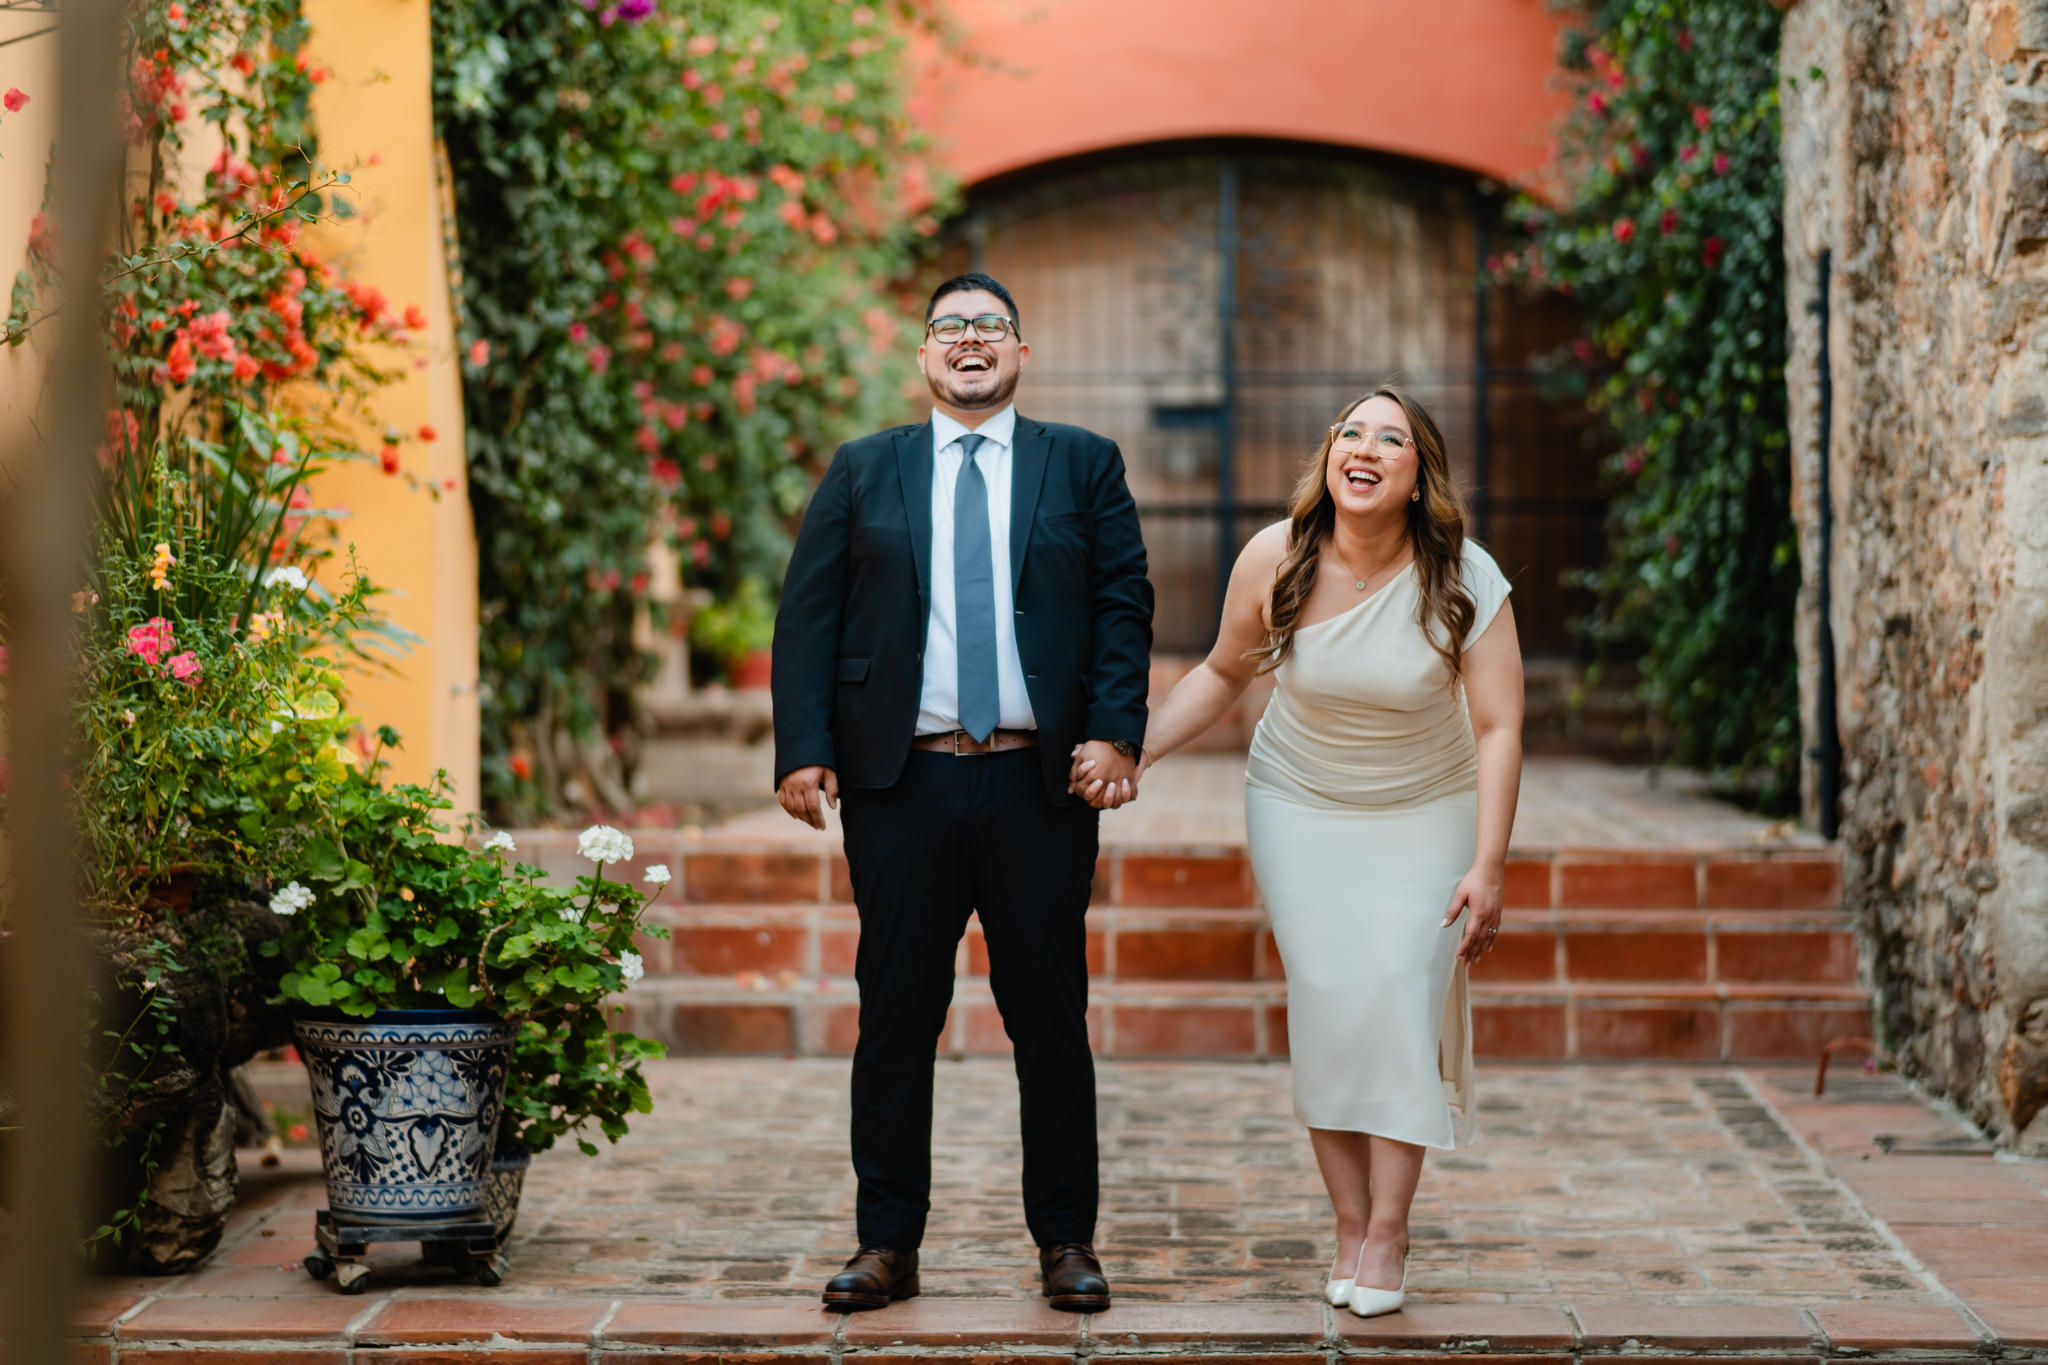
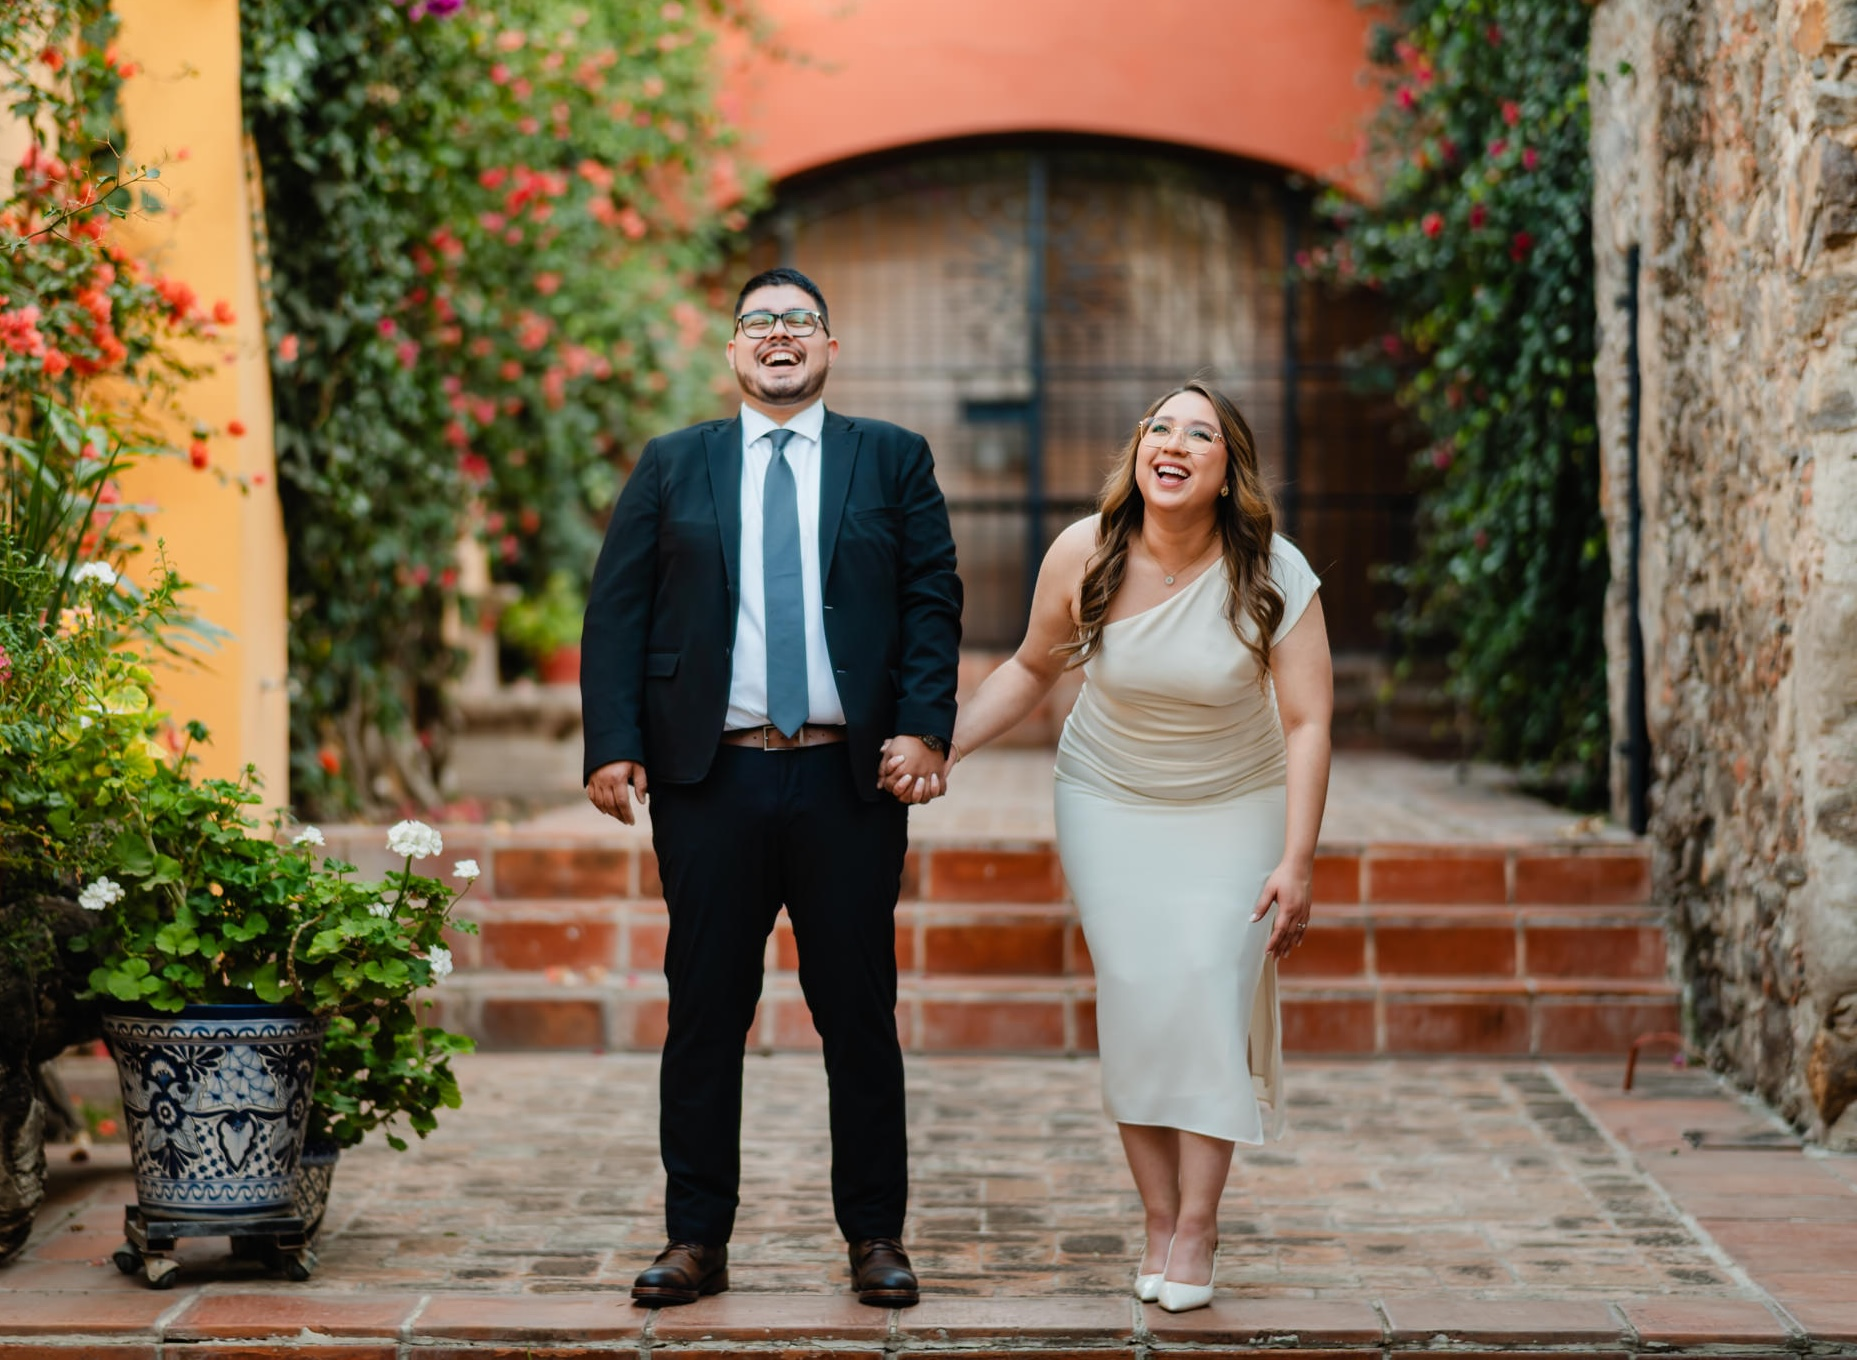
Cambios

diff --git a/public/inspiracion-boda.html b/public/inspiracion-boda.html
@@ -122,6 +122,22 @@
       font-family: 'Bona Nova SC', serif;
     }
 
+    .insp-couple .first,
+    .insp-couple .last {
+      position: relative;
+      top: -34px;
+    }
+
+    .insp-couple .first {
+      transform: translateX(-70px);
+      margin-right: 0;
+    }
+
+    .insp-couple .last {
+      transform: translateX(70px);
+      margin-left: 0;
+    }
+
     .insp-hero-date {
       text-align: right;
       color: #fff;
@@ -145,6 +161,33 @@
       font-size: clamp(42px, 6vw, 72px);
       font-weight: 700;
       line-height: 1;
+    }
+
+    .insp-date-under-hero {
+      background: #efe8df;
+      padding: 14px 18px 20px;
+      text-align: center;
+    }
+
+    .insp-date-under-hero .insp-hero-date {
+      min-width: 0;
+      padding: 0;
+      text-align: center;
+      display: inline-block;
+      font-family: 'Bona Nova SC', serif;
+    }
+
+    .insp-date-under-hero .insp-hero-date .day {
+      font-size: clamp(28px, 3.8vw, 54px);
+      font-weight: 700;
+      letter-spacing: .06em;
+    }
+
+    .insp-date-under-hero .insp-hero-date .year {
+      font-size: clamp(54px, 6.8vw, 92px);
+      font-weight: 700;
+      margin-top: 6px;
+      letter-spacing: .04em;
     }
 
     .insp-body {
@@ -175,14 +218,18 @@
     }
 
     .insp-blessing {
-      margin: 0 auto 18px;
+      margin: 0 auto 26px;
       max-width: 760px;
+      min-height: 120px;
+      display: flex;
+      align-items: center;
+      justify-content: center;
       text-align: center;
       color: #5c5049;
-      font-size: clamp(16px, 2.1vw, 22px);
+      font-size: clamp(18px, 2.1vw, 22px);
       line-height: 1.7;
       font-family: 'Playfair Display', serif;
-      padding: 0 10px;
+      padding: 8px 12px;
     }
 
     .insp-benefits {
@@ -471,6 +518,19 @@
         font-size: clamp(48px, 13vw, 74px);
       }
 
+      .insp-couple .first,
+      .insp-couple .last {
+        top: -22px;
+      }
+
+      .insp-couple .first {
+        transform: translateX(-42px);
+      }
+
+      .insp-couple .last {
+        transform: translateX(42px);
+      }
+
       .insp-hero-date {
         min-width: 172px;
       }
@@ -487,8 +547,17 @@
         padding: 38px 0 44px;
       }
 
+      .insp-date-under-hero {
+        padding: 10px 14px 14px;
+      }
+
       .insp-intro p {
         font-size: 13px;
+      }
+
+      .insp-blessing {
+        min-height: 96px;
+        margin-bottom: 20px;
       }
 
       .insp-benefits {
@@ -528,15 +597,42 @@
 
       .insp-copy-row {
         margin-top: 72px;
-        flex-direction: column;
-        align-items: flex-start;
-        gap: 10px;
       }
 
-      .insp-hero-date {
-        text-align: left;
-        min-width: 0;
-        padding-bottom: 0;
+      .insp-couple.names-alt {
+        display: grid;
+        grid-template-columns: 1fr auto 1fr;
+        grid-template-areas:
+          "first . last"
+          ". amp .";
+        column-gap: 10px;
+        row-gap: 6px;
+        align-items: center;
+      }
+
+      .insp-couple .first,
+      .insp-couple .last,
+      .insp-couple .amp-alt {
+        display: inline-block;
+      }
+
+      .insp-couple .first {
+        grid-area: first;
+        justify-self: start;
+        top: -12px;
+        transform: none;
+      }
+
+      .insp-couple .last {
+        grid-area: last;
+        justify-self: end;
+        top: -12px;
+        transform: none;
+      }
+
+      .insp-couple .amp-alt {
+        grid-area: amp;
+        justify-self: center;
       }
 
       .insp-countdown-hero {
@@ -566,6 +662,27 @@
         right: 10px;
       }
     }
+
+    @media (min-width: 861px) {
+      .insp-hero {
+        min-height: 100vh;
+      }
+
+      .insp-copy-row {
+        margin-top: auto;
+        justify-content: center;
+        align-items: center;
+      }
+
+      .insp-copy {
+        max-width: 100%;
+        text-align: center;
+      }
+
+      .insp-copy-row .insp-hero-date {
+        display: none;
+      }
+    }
   </style>
 </head>
 
@@ -593,18 +710,19 @@
               <span class="last">Sergio</span>
             </h1>
           </div>
-          <div class="insp-hero-date" aria-label="Fecha de la boda">
-            <span class="day">Sabado 11 de Julio</span>
-            <span class="year">2026</span>
-          </div>
         </div>
       </header>
+      <div class="insp-date-under-hero" aria-label="Fecha de la boda">
+        <div class="insp-hero-date">
+          <span class="day">SÁBADO 11 DE JULIO DE 2026</span>
+        </div>
+      </div>
 
       <div class="insp-body">
-        <p class="countdown dancing-script" style="font-size: 20px;">
+        <p class="insp-blessing countdown dancing-script">
           “Dios juntó nuestras manos y nos señaló el camino.<br>
           Nosotros uniremos nuestras vidas y lo recorreremos con fé y amor.”
-        </p><br>
+        </p>
 
         <section class="insp-countdown-hero" aria-label="Cuenta regresiva para la boda">
           <h3 class="insp-countdown-title">Cuenta regresiva</h3>
@@ -683,16 +801,21 @@
       if (!track) return;
 
       const carousel = track.closest('.insp-carousel');
+      const viewport = carousel.querySelector('.insp-viewport');
       const prevBtn = carousel.querySelector('.insp-arrow.prev');
       const nextBtn = carousel.querySelector('.insp-arrow.next');
-      const originalSlides = Array.from(track.children);
-      const total = originalSlides.length;
-      const cloneCount = Math.min(4, total);
+      const fallbackSlides = Array.from(track.children).map((slide) => {
+        const img = slide.querySelector('img');
+        return img ? img.getAttribute('src') : null;
+      }).filter(Boolean);
       const lightbox = document.getElementById('inspLightbox');
       const lightboxImg = document.getElementById('inspLightboxImg');
       const lightboxClose = lightbox.querySelector('.insp-lightbox-close');
       const countdown = document.getElementById('inspCountdown');
       const dateTarget = new Date('2026-07-11T00:00:00');
+      let total = 0;
+      let cloneCount = 0;
+      let isAnimating = false;
 
       function updateCountdown() {
         if (!countdown) return;
@@ -709,15 +832,68 @@
         countdown.querySelector('[data-unit="seconds"]').textContent = String(seconds).padStart(2, '0');
       }
 
-      for (let i = total - cloneCount; i < total; i += 1) {
-        track.insertBefore(originalSlides[i].cloneNode(true), track.firstChild);
-      }
-      for (let i = 0; i < cloneCount; i += 1) {
-        track.appendChild(originalSlides[i].cloneNode(true));
-      }
-
       let index = cloneCount;
       let autoplayId = null;
+
+      function buildSlides(imageUrls) {
+        if (!imageUrls || !imageUrls.length) return;
+        const unique = [...new Set(imageUrls)];
+        if (!unique.length) return;
+
+        track.innerHTML = '';
+        unique.forEach(function (src) {
+          const figure = document.createElement('figure');
+          figure.className = 'insp-slide';
+          const img = document.createElement('img');
+          img.src = src;
+          img.alt = 'Sesion preboda de Karen y Sergio';
+          figure.appendChild(img);
+          track.appendChild(figure);
+        });
+
+        const originals = Array.from(track.children);
+        total = originals.length;
+        const step = getSlideStep() || 1;
+        const visibleCount = Math.max(1, Math.ceil((viewport ? viewport.clientWidth : 0) / step));
+        cloneCount = Math.min(total, Math.max(4, visibleCount + 2));
+        for (let i = total - cloneCount; i < total; i += 1) {
+          track.insertBefore(originals[i].cloneNode(true), track.firstChild);
+        }
+        for (let i = 0; i < cloneCount; i += 1) {
+          track.appendChild(originals[i].cloneNode(true));
+        }
+        index = cloneCount;
+        move(false);
+      }
+
+      function imageExists(src) {
+        return new Promise(function (resolve) {
+          const img = new Image();
+          img.onload = function () { resolve(true); };
+          img.onerror = function () { resolve(false); };
+          img.src = src;
+        });
+      }
+
+      async function discoverCarouselImages() {
+        const found = [];
+        const start = 1000;
+        const end = 1300;
+        const probes = [];
+
+        for (let n = start; n <= end; n += 1) {
+          const src = `img/Carrusel/Preboda%20Karen%20%26%20Sergio%20-%20Luis%20Houdin%20WEB%20(${n}%20de%20175).jpg`;
+          probes.push(
+            imageExists(src).then(function (ok) {
+              if (ok) found.push({ n: n, src: src });
+            })
+          );
+        }
+
+        await Promise.all(probes);
+        found.sort(function (a, b) { return a.n - b.n; });
+        return found.map(function (item) { return item.src; });
+      }
 
       function getSlideStep() {
         const firstSlide = track.children[0];
@@ -728,23 +904,36 @@
       }
 
       function move(animate) {
-        track.style.transition = animate ? 'transform 0.62s ease' : 'none';
+        track.style.transition = animate ? 'transform 1.8s linear' : 'none';
         track.style.transform = `translateX(${-index * getSlideStep()}px)`;
       }
 
       function next() {
+        if (!total || isAnimating) return;
+        if (index >= total + cloneCount - 1) {
+          index = cloneCount - 1;
+          move(false);
+        }
         index += 1;
+        isAnimating = true;
         move(true);
       }
 
       function prev() {
+        if (!total || isAnimating) return;
+        if (index <= cloneCount) {
+          index = total + cloneCount;
+          move(false);
+        }
         index -= 1;
+        isAnimating = true;
         move(true);
       }
 
       function startAutoplay() {
+        if (total <= 1) return;
         stopAutoplay();
-        autoplayId = setInterval(next, 2000);
+        autoplayId = setInterval(next, 2300);
       }
 
       function stopAutoplay() {
@@ -755,6 +944,8 @@
       }
 
       track.addEventListener('transitionend', function () {
+        isAnimating = false;
+        if (!total) return;
         if (index >= total + cloneCount) {
           index = cloneCount;
           move(false);
@@ -809,13 +1000,22 @@
       carousel.addEventListener('focusin', stopAutoplay);
       carousel.addEventListener('focusout', startAutoplay);
       window.addEventListener('resize', function () {
+        isAnimating = false;
         move(false);
       });
 
-      move(false);
+      buildSlides(fallbackSlides);
+      discoverCarouselImages()
+        .then(function (images) {
+          if (images.length) buildSlides(images);
+        })
+        .catch(function () { })
+        .finally(function () {
+          startAutoplay();
+        });
+
       updateCountdown();
       setInterval(updateCountdown, 1000);
-      startAutoplay();
     })();
   </script>
 </body>
